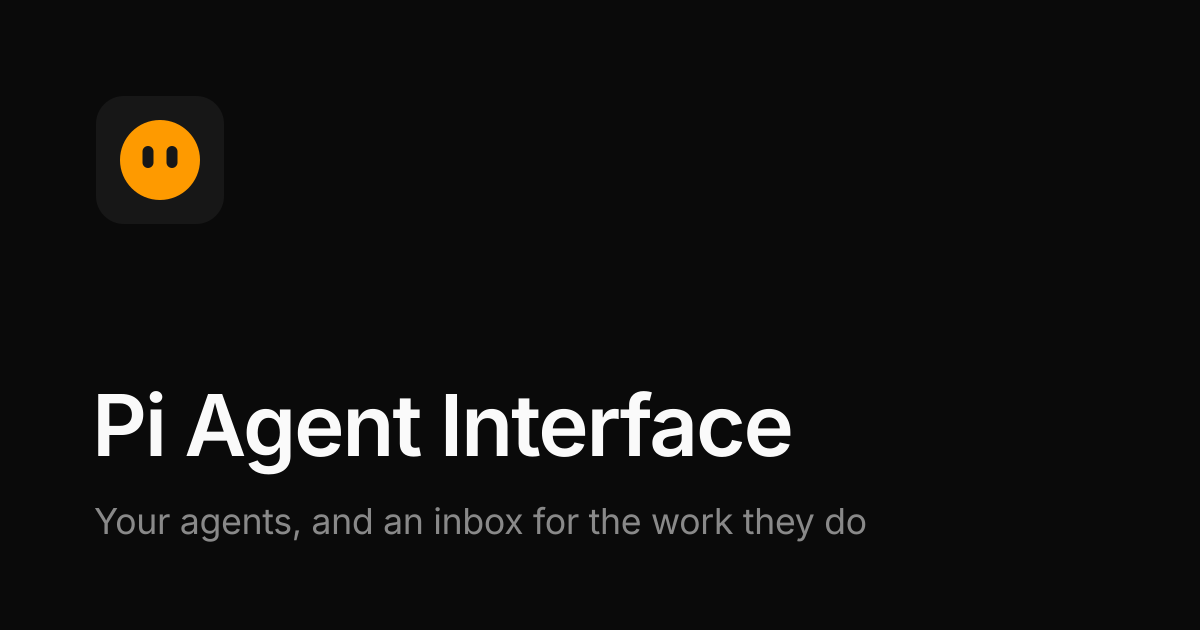
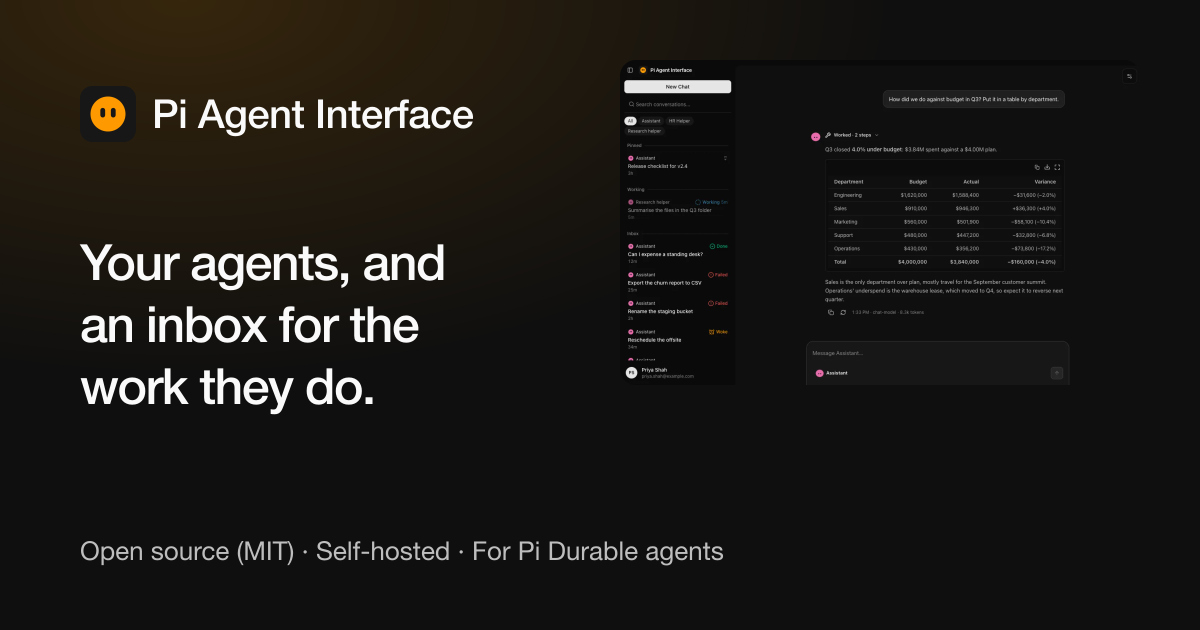
Screenshots (15 slots, Example Corp demo on v0.3.1), corrected slot texts and personas, regenerated Open Graph card; the page names v0.3.1

diff --git a/lib/site.ts b/lib/site.ts
@@ -2,7 +2,7 @@ const repoUrl = "https://github.com/ncecere/pi-agent-interface";
 // The page describes the released version, so links into the repository are
 // pinned at its tag (blob/ for files, tree/ for folders). Move the tag when a
 // new release is checked against the page.
-const tag = "v0.3.0";
+const tag = "v0.3.1";
 const pinned = `${repoUrl}/blob/${tag}`;
 
 export const site = {
@@ -19,18 +19,18 @@ export const site = {
   docsUrl: "https://docs.pai.bitop.dev",
   repoUrl,
   // The latest release, and the release day of `version` (the footer and the
-  // sitemap show it): the v0.3.0 tag.
+  // sitemap show it): the v0.3.1 tag.
   version: tag,
   releaseDate: "2026-10-18" as string | null,
   releaseNotesUrl: `${repoUrl}/releases/tag/${tag}`,
   // The container image the repository's image workflow publishes for each
   // release tag: multi-arch (linux/amd64, linux/arm64), public, signed with
-  // cosign keyless. The digest is the v0.3.0 multi-arch index (the
+  // cosign keyless. The digest is the v0.3.1 multi-arch index (the
   // registry's digest for the tag, read with `docker buildx imagetools
   // inspect` on 2026-10-18; linux/amd64 and linux/arm64).
   image: "ghcr.io/ncecere/pi-agent-interface",
   imageTag: tag,
-  imageDigest: "sha256:08034bb95172c030564f2ba86428ef7586573a2213e218ee31b0b8090b94fbc8",
+  imageDigest: "sha256:d2c1fa505e40c396aebe44806f0b3316e5da379b44b40dfead16a7638225e91c",
   // The signing identity: the image workflow at the release tag, and GitHub's OIDC issuer.
   cosignIdentity: `${repoUrl}/.github/workflows/image.yml@refs/tags/${tag}`,
   cosignIssuer: "https://token.actions.githubusercontent.com",

diff --git a/app/page.tsx b/app/page.tsx
@@ -18,8 +18,9 @@ import { ButtonLink, CheckList, CodeBlock, Eyebrow, Note, SectionHeading, Strong
 import { site } from "@/lib/site";
 
 /*
- * Every claim here is checked against Pi Agent Interface v0.3.0
- * (github.com/ncecere/pi-agent-interface, tag v0.3.0, commit b78e988,
+ * Every claim here is checked against Pi Agent Interface v0.3.0, and still holds for v0.3.1, which
+ * only fixes two inbox display glitches
+ * (github.com/ncecere/pi-agent-interface, tag v0.3.1, commit fe94cdb,
  * 2026-10-18): README.md, CHANGELOG.md ("0.2.0", "0.3.0"), NOTICE.md,
  * deploy/kubernetes/README.md, server/connect.ts, server/connect-agents.ts,
  * server/features.ts, the routes in server/app.ts, server/config.ts,

diff --git a/SCREENSHOTS.md b/SCREENSHOTS.md
@@ -17,21 +17,21 @@ Phone captures are 390x844 at 2x. Save them as PNG under the expected name in `.
 
 | File | Shape | Persona | What it should show | Status |
 |---|---|---|---|---|
-| `chat-inbox.png` | desktop, 1440x900 | Priya Shah (member), Example Corp, dark theme, Face avatars | Hero, 1440x900. A conversation with Assistant open on the right: Priya's question, a finished reply with its reasoning and two tool steps folded above a Markdown answer with a table. The inbox on the left with a pinned row, one row under Working with its timer, and Inbox rows marked Done and Failed. Also drawn into public/og.png. | placeholder |
-| `tool-steps.png` | desktop, 1440x900 | Priya Shah (member), Example Corp, dark theme | 1440x900. A reply whose tool steps are open: a terminal step showing "$ command" and its output, a step with simple inputs as name and value, JSON output indented, the Copy button visible; one step red because it failed. | placeholder |
-| `inbox-rows.png` | desktop, 1440x900 | Priya Shah (member), Example Corp, dark theme | 1440x900, cropped to the sidebar is fine. Inbox rows of three lines (agent, title, time): Working with a timer, Done, Failed and Woke in the corner, a pin on a pinned row, and the hover actions Pin, Snooze and Settle on the row under the pointer. | placeholder |
-| `inbox-snooze.png` | desktop, 1440x900 | Priya Shah (member), Example Corp, dark theme | 1440x900. A row's Snooze menu open, listing each choice with its wake time and Custom…; the Snoozed, Settled and Archived shelves visible below the inbox. | placeholder |
-| `phone-inbox.png` | phone, 390x844 @2x | Priya Shah (member), Example Corp, dark theme | 390x844 at 2x. The inbox on a phone, with a conversation under Working and the row actions shown (they are always visible on touch screens). | placeholder |
-| `connect.png` | desktop, 1440x900 | Priya Shah (member), Example Corp, dark theme. Needs a deployment in Connect mode (PLATFORM_AUTH=connect), captured before she has connected. | 1440x900. The "Connect your agents" screen Priya sees right after signing in: the app's name, the sentence about using her account on the agent platform, the two points (her agents live in her personal workspace with her teams' agents beside them; the app acts only on her agents, as her, and she can disconnect it), the Connect button, and "Signed in as priya.shah@example.com. Sign out" under it. | placeholder |
-| `account-connection.png` | desktop, 1440x900 | Priya Shah (member), Example Corp, dark theme. Needs a deployment in Connect mode, captured after she has connected. | 1440x900. Settings › Account, scrolled to the Agent platform section: Connected account with her platform email and the date she connected, and the Disconnect row with its button. The Profile and Sessions sections may show above and below. | placeholder |
-| `agent-picker.png` | desktop, 1440x900 | Priya Shah (member), Example Corp, dark theme, Face avatars | 1440x900. The agent picker open on a new conversation: provided agents (Assistant, Research) grouped above Priya's own (Release notes), each with its animated avatar. | placeholder |
-| `my-agents.png` | desktop, 1440x900 | Priya Shah (member), Example Corp, dark theme | 1440x900. Settings › My agents with one agent of her own and the dialog to make another: a name, a template from the allowed ones, and a model. | placeholder |
-| `avatar-styles.png` | desktop, 1440x900 | Priya Shah (member), Example Corp, dark theme | 1440x900. Settings › Customization: appearance, accent and the Avatar style choice showing Face, Signal and Pixel. | placeholder |
-| `admin-agents.png` | desktop, 1440x900 | Alex Morgan (administrator), Example Corp, dark theme | 1440x900. Admin › Agents: Everyone's agents (default model, agents each person may make: 5, People choose the model on, the allowed templates) and Provided agents (Assistant and Research). | placeholder |
-| `admin-people.png` | desktop, 1440x900 | Alex Morgan (administrator), Example Corp, dark theme | 1440x900. Admin › People: the Example Corp people with their roles (administrator or member), status (one suspended) and when each was last seen, with the search field. | placeholder |
-| `admin-features.png` | desktop, 1440x900 | Alex Morgan (administrator), Example Corp, dark theme. Needs a deployment in service-account mode (PLATFORM_AUTH=service): with Connect, Usage is locked off. | 1440x900. Admin › Features: Usage (on) and Personal usage (off), each with its description. | placeholder |
-| `admin-usage.png` | desktop, 1440x900 | Alex Morgan (administrator), Example Corp, dark theme. Needs a deployment in service-account mode (PLATFORM_AUTH=service): Admin › Usage isn't available with Connect. | 1440x900. Admin › Usage over the last 30 days: requests, tokens and estimated cost per person, and tokens per day. | placeholder |
-| `admin-audit.png` | desktop, 1440x900 | Alex Morgan (administrator), Example Corp, dark theme | 1440x900. Admin › Audit log: recent changes such as a role change, a suspension, the agent settings, a provided agent and a feature turned on, each with who and when. | placeholder |
+| `chat-inbox.png` | desktop, 1440x900 | Priya Shah (member), Example Corp, dark theme, Face avatars | Hero, 1440x900. A conversation with Assistant open on the right: Priya's question, a finished reply with its reasoning and two tool steps folded above a Markdown answer with a table. The inbox on the left with a pinned row, one row under Working with its timer, and Inbox rows marked Done and Failed. Also drawn into public/og.png. | filled |
+| `tool-steps.png` | desktop, 1440x900 | Priya Shah (member), Example Corp, dark theme | 1440x900. A reply whose tool steps are open: a terminal step showing "$ command" and its output, a step with simple inputs as name and value, JSON output indented, the Copy button visible; one step that failed, with an alert icon and the word "failed". | filled |
+| `inbox-rows.png` | desktop, 1440x900 | Priya Shah (member), Example Corp, dark theme | 1440x900, cropped to the sidebar is fine. Inbox rows of three lines (agent, title, time): Working with a timer, Done, Failed and Woke in the corner, a pin on a pinned row, and the hover actions Pin, Snooze and Settle on the row under the pointer. | filled |
+| `inbox-snooze.png` | desktop, 1440x900 | Priya Shah (member), Example Corp, dark theme | 1440x900. A row's Snooze menu open, listing each choice with its wake time and Custom…; the Snoozed, Settled and Archived shelves visible below the inbox. | filled |
+| `phone-inbox.png` | phone, 390x844 @2x | Priya Shah (member), Example Corp, dark theme | 390x844 at 2x. The inbox on a phone, with a conversation under Working and the row actions shown (they are always visible on touch screens). | filled |
+| `connect.png` | desktop, 1440x900 | Priya Shah (member), Example Corp, dark theme. Needs a deployment in Connect mode (PLATFORM_AUTH=connect), captured before she has connected. | 1440x900. The "Connect your agents" screen Priya sees right after signing in: the app's name, the sentence about using her account on the agent platform, the two points (her agents live in her personal workspace with her teams' agents beside them; the app acts only on her agents, as her, and she can disconnect it), the Connect button, and "Signed in as priya.shah@example.com. Sign out" under it. | filled |
+| `account-connection.png` | desktop, 1440x900 | Priya Shah (member), Example Corp, dark theme. Needs a deployment in Connect mode, captured after she has connected. | 1440x900. Settings › Account, scrolled to the Agent platform section: Connected account with her platform email, and the Disconnect row with its button. The Profile and Sessions sections may show above and below. | filled |
+| `agent-picker.png` | desktop, 1440x900 | Priya Shah (member), Example Corp, dark theme, Face avatars | 1440x900. The agent picker open on a new conversation: provided agents (Assistant, HR Helper) grouped above Priya's own (Release notes), each with its animated avatar. | filled |
+| `my-agents.png` | desktop, 1440x900 | Priya Shah (member), Example Corp, dark theme | 1440x900. Settings › My agents with one agent of her own and the dialog to make another: a name, a template from the allowed ones, and a model. | filled |
+| `avatar-styles.png` | desktop, 1440x900 | Priya Shah (member), Example Corp, dark theme | 1440x900. Settings › Customization: appearance, accent and the Avatar style choice showing Face, Signal and Pixel. | filled |
+| `admin-agents-alex.png` | desktop, 1440x900 | Alex Morgan (administrator), Example Corp, dark theme | 1440x900. Admin › Agents: Everyone's agents (default model, agents each person may make: 5, People choose the model on, the allowed templates) and Provided agents (Assistant and HR Helper). | filled |
+| `admin-people-alex.png` | desktop, 1440x900 | Alex Morgan (administrator), Example Corp, dark theme | 1440x900. Admin › People: the Example Corp people with their roles (administrator or member), status (one suspended) and when each was last seen, with the search field. | filled |
+| `admin-features-alex.png` | desktop, 1440x900 | Alex Morgan (administrator), Example Corp, dark theme. Needs a deployment in service-account mode (PLATFORM_AUTH=service): with Connect, Usage is locked off. | 1440x900. Admin › Features: Usage (on) and Personal usage (off), each with its description. | filled |
+| `admin-usage-alex.png` | desktop, 1440x900 | Alex Morgan (administrator), Example Corp, dark theme. Needs a deployment in service-account mode (PLATFORM_AUTH=service): Admin › Usage isn't available with Connect. | 1440x900. Admin › Usage over the last 30 days: requests, tokens and estimated cost per person, and tokens per day. | filled |
+| `admin-audit-alex.png` | desktop, 1440x900 | Alex Morgan (administrator), Example Corp, dark theme | 1440x900. Admin › Audit log: recent changes such as a role change, a suspension, the agent settings, a provided agent and a feature turned on, each with who and when. | filled |
 
 ## Alt text and captions
 
@@ -44,7 +44,7 @@ As the page uses them; update `lib/slots.json` if a capture differs.
 
 ### `tool-steps`
 
-- Alt: A reply with its tool steps opened: a terminal command shown as "$ command" with its output, a web search with its query, indented JSON output with a Copy button, and one step marked in red because it failed.
+- Alt: A reply with its tool steps opened: a terminal command shown as "$ command" with its output, a web search with its query, indented JSON output with a Copy button, and one step that failed, marked with an alert icon and the word "failed".
 - Caption: Each tool step shows what it acted on. Opened, it shows the command, the inputs and the output, ready to copy.
 
 ### `inbox-rows`
@@ -69,12 +69,12 @@ As the page uses them; update `lib/slots.json` if a capture differs.
 
 ### `account-connection`
 
-- Alt: Settings › Account, Agent platform: the connected account, Priya Shah's email on the platform and the date she connected, and a Disconnect button with a line saying her agents and conversations stay on the platform.
+- Alt: Settings › Account, Agent platform: the connected account, Priya Shah's email on the platform, and a Disconnect button with a line saying her agents and conversations stay on the platform.
 - Caption: Disconnect any time. Your agents and conversations stay on the platform.
 
 ### `agent-picker`
 
-- Alt: The agent picker on a new conversation: the provided agents Assistant and Research, and Priya's own agent Release notes, each with its avatar.
+- Alt: The agent picker on a new conversation: the provided agents Assistant and HR Helper, and Priya's own agent Release notes, each with its avatar.
 - Caption: The agents your administrators provide, and the ones you made, in one picker.
 
 ### `my-agents`
@@ -89,7 +89,7 @@ As the page uses them; update `lib/slots.json` if a capture differs.
 
 ### `admin-agents`
 
-- Alt: Admin › Agents: the default model, five agents each person may make, people choosing the model, the allowed templates, and the provided agents Assistant and Research.
+- Alt: Admin › Agents: the default model, five agents each person may make, people choosing the model, the allowed templates, and the provided agents Assistant and HR Helper.
 - Caption: Every person gets a private copy of each provided agent. Models and templates are the ones the platform offers the team.
 
 ### `admin-people`

diff --git a/README.md b/README.md
@@ -2,11 +2,11 @@
 
 The landing page for [Pi Agent Interface (PAI)](https://github.com/ncecere/pi-agent-interface), a self-hosted, open-source (MIT) chat app for [Pi Durable](https://github.com/ncecere/pi-durable-platform) agents: people sign in with single sign-on, connect their own platform account once so their agents live in their personal workspace beside their teams' agents, and one inbox follows the work they do. The site is served at https://pai.bitop.dev; the documentation lives in its own repository and site, https://docs.pai.bitop.dev.
 
-It's one long page plus a 404 page, with no pricing, sign-up, forms, cookies, tracking or third-party requests. The text describes Pi Agent Interface **v0.3.0** (tag `v0.3.0`, commit `b78e988`, released 2026-10-18) and is checked against its `README.md`, `CHANGELOG.md` (`## 0.2.0`, `## 0.3.0`), `NOTICE.md`, `deploy/kubernetes/README.md`, `server/connect.ts`, `server/connect-agents.ts`, `server/features.ts`, the routes in `server/app.ts`, `server/config.ts`, `server/session.ts`, `server/agent-settings.ts`, the screens in `src/routes/**` and `src/components/connect/`, the `Dockerfile` and `.github/workflows/image.yml`. Nothing on the page describes a feature that isn't built in that release; the project status card lists what isn't built yet, without dates (no file or image uploads; Admin › Usage needs service-account mode and usage across everyone who connected isn't available; editing or branching messages, searching message text and access by identity-provider group). Model and tokens under replies, message times, tool step durations and the length-limit note are described as shown when the platform records them.
+It's one long page plus a 404 page, with no pricing, sign-up, forms, cookies, tracking or third-party requests. The text describes Pi Agent Interface **v0.3.1** (tag `v0.3.1`, commit `fe94cdb`, released 2026-10-18) and is checked against its `README.md`, `CHANGELOG.md` (`## 0.2.0`, `## 0.3.0`), `NOTICE.md`, `deploy/kubernetes/README.md`, `server/connect.ts`, `server/connect-agents.ts`, `server/features.ts`, the routes in `server/app.ts`, `server/config.ts`, `server/session.ts`, `server/agent-settings.ts`, the screens in `src/routes/**` and `src/components/connect/`, the `Dockerfile` and `.github/workflows/image.yml`. Nothing on the page describes a feature that isn't built in that release; the project status card lists what isn't built yet, without dates (no file or image uploads; Admin › Usage needs service-account mode and usage across everyone who connected isn't available; editing or branching messages, searching message text and access by identity-provider group). Model and tokens under replies, message times, tool step durations and the length-limit note are described as shown when the platform records them.
 
 **Connect** (people connect their own platform account once; their agents live in their personal workspace beside their teams' agents; the server keeps their tokens encrypted; service-account mode remains for platforms without Connect) is the headline: the first feature card, the "How it works" diagram with its Connect and Service account cards, and the Connect gallery in the screenshots.
 
-`lib/site.ts` holds the version and its release day (the footer and sitemap show it), the release notes link (the GitHub Release page for the tag), the container image (`ghcr.io/ncecere/pi-agent-interface`, tag `v0.3.0`, the multi-arch index digest `sha256:08034bb9...fbc8` and the cosign keyless identity and issuer shown in the `cosign verify` command), the repository links (pinned at `blob/v0.3.0` or `tree/v0.3.0`: move the `tag` constant when a later release has been checked against the page), the docs URL and the example hosts (`chat.example.com` for the chat app, `agents.example.com` for the platform). The image is public (anonymous pull works) with linux/amd64 and linux/arm64 manifests; the digest was read from the registry (`docker buildx imagetools inspect`) on 2026-10-18. The `cosign verify` command has not been run from this repository (cosign isn't installed here); re-check it when the tag moves.
+`lib/site.ts` holds the version and its release day (the footer and sitemap show it), the release notes link (the GitHub Release page for the tag), the container image (`ghcr.io/ncecere/pi-agent-interface`, tag `v0.3.1`, the multi-arch index digest `sha256:d2c1fa50...fbc8` and the cosign keyless identity and issuer shown in the `cosign verify` command), the repository links (pinned at `blob/v0.3.0` or `tree/v0.3.0`: move the `tag` constant when a later release has been checked against the page), the docs URL and the example hosts (`chat.example.com` for the chat app, `agents.example.com` for the platform). The image is public (anonymous pull works) with linux/amd64 and linux/arm64 manifests; the digest was read from the registry (`docker buildx imagetools inspect`) on 2026-10-18. The `cosign verify` command has not been run from this repository (cosign isn't installed here); re-check it when the tag moves.
 
 **Naming.** The page leads with "Pi Agent Interface" (title, hero, metadata) and uses "PAI" only as a short form after it. The text names no competing chat or agent products. Open Chat Interface (the sister product the web app is derived from) and Pi Durable (the platform it is for) are named on purpose. The inbox follows the design of another product's thread sidebar; that credit is in the product's `NOTICE.md`, not on this page. Examples use generic names (`chat.example.com`, Example Corp) and never a real installation. `scripts/postbuild.mjs` fails the build if a page uses a forbidden name, names a `bitop.dev` host other than this site and its docs, or uses "PAI" before "Pi Agent Interface".
 
